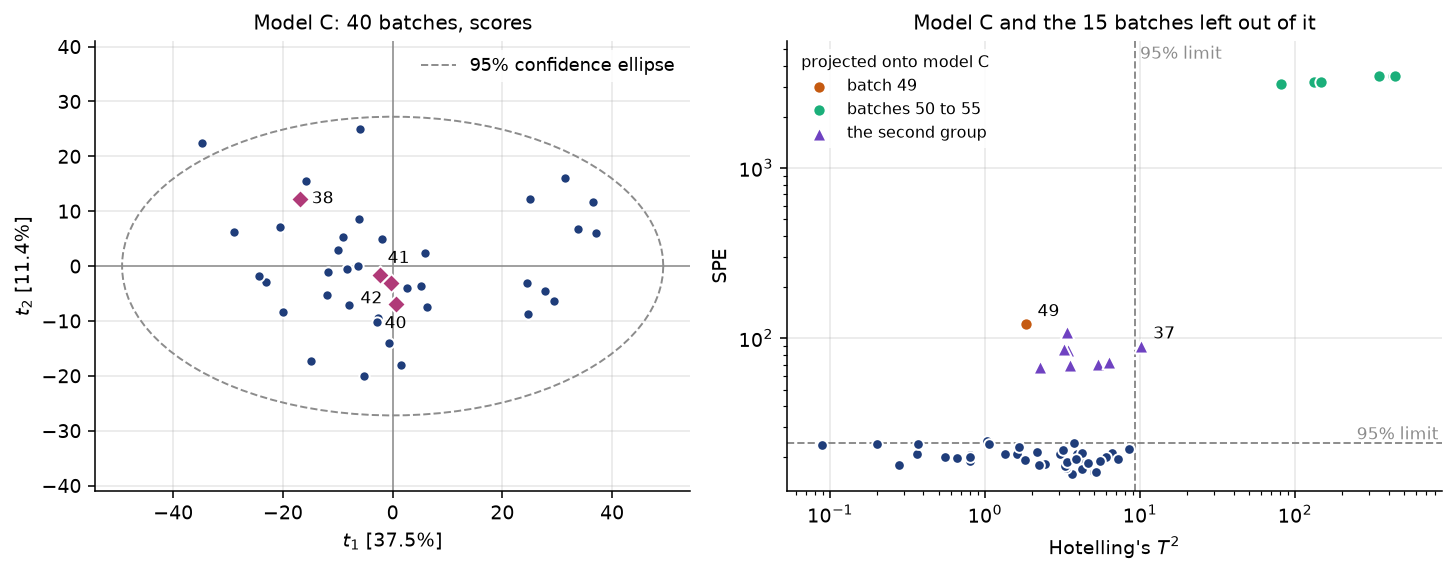
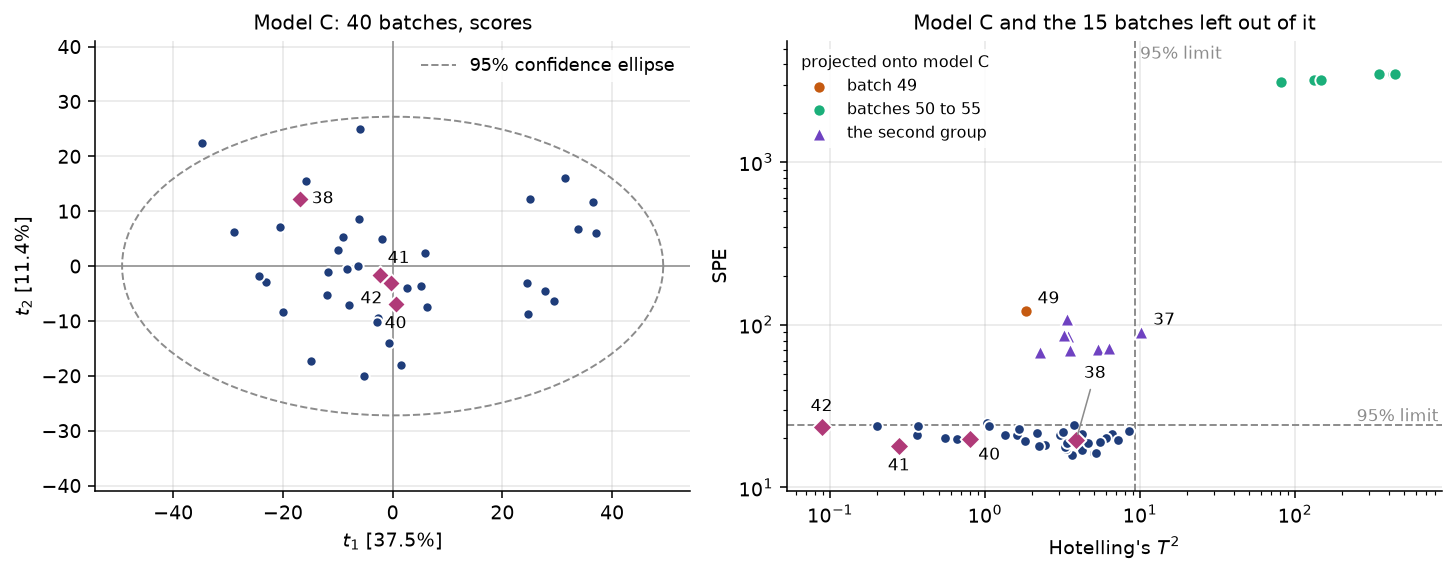
Mark batches 38, 40, 41 and 42 in the influence plot too
The book's text reads their SPE off the right panel of the model C figure, but
there they were four of forty plain blue dots, indistinguishable. They now carry
the same magenta diamond that identifies them in the score plot beside it, and
their batch numbers.

Two helper changes make that possible:

- influence_plot gains highlight_marker, which score_plot already had. A set
  given its own shape in a score plot keeps it in the influence plot beside it,
  so the reader recognises it without re-reading a legend.
- annotate_batches gains leaders, the per-batch offset that score_plot already
  implemented inline for the same purpose. Batch 38 sits in the thickest part of
  the training cloud, where no side of its marker is clear and the label solver
  pushes the label onto the x-axis; it now goes up into the empty band on a
  leader line. score_plot keeps its own copy of that logic for now, so this
  change cannot move any figure it draws.

The panel also gains room below the training cloud, which sits on its floor and
left the four new labels crowding the axis.

Claude-Session: https://claude.ai/code/session_01LXthGpHLQFfGubBiKFtGAE

diff --git a/batch/batch_case_common.py b/batch/batch_case_common.py
@@ -342,10 +342,22 @@ def group_scatter(
                    linewidth=1 if areas is None else 1.4, zorder=4)
 
 
-def annotate_batches(ax, x: pd.Series, y: pd.Series, batch_ids, *, fontsize: float = 8.5) -> None:
-    """Name a few points on a scatter panel; ``save`` then gives each label the clearest side of its marker."""
+def annotate_batches(ax, x: pd.Series, y: pd.Series, batch_ids, *, fontsize: float = 8.5,
+                     leaders: dict[int, tuple[float, float]] | None = None) -> None:
+    """Name a few points on a scatter panel; ``save`` then gives each label the clearest side of its marker.
+
+    ``leaders`` maps a batch to an offset in points: that label is placed exactly there with a leader
+    line to its marker, rather than left to ``save``'s solver. Use it for a marker inside a dense
+    cloud, where the solver has no clear side to choose and pushes the label onto an axis.
+    """
     for batch_id in batch_ids:
         point = (float(x.loc[batch_id]), float(y.loc[batch_id]))
+        if batch_id in (leaders or {}):  # a leader line is a deliberate mark, so its offset is given, not chosen
+            dx, dy = leaders[batch_id]
+            ax.annotate(str(batch_id), point, xytext=(dx, dy), textcoords="offset points", fontsize=fontsize,
+                        ha="right" if dx < 0 else "left", va="top" if dy < 0 else "bottom", zorder=6,
+                        arrowprops={"arrowstyle": "-", "color": GREY, "lw": 0.8, "shrinkA": 2, "shrinkB": 3})
+            continue
         text = ax.annotate(str(batch_id), point, xytext=(4, 4), textcoords="offset points",
                            fontsize=fontsize, zorder=6, gid=AUTO_LABEL)
         # The leader is a line of its own rather than an annotation's arrow, so `save` can set both of
@@ -443,6 +455,8 @@ def influence_plot(
     *,
     highlight: dict[int, str] | None = None,
     labels: list[int] | None = None,
+    highlight_marker: str = "o",
+    label_leader: dict[int, tuple[float, float]] | None = None,
     sizes: pd.Series | None = None,
     conf_level: float = 0.95,
     title: str = "",
@@ -483,12 +497,15 @@ def influence_plot(
 
     # ``sizes`` carries the same quantity, on the same scale, as the score plot that precedes this one,
     # so a batch keeps its marker size across the pair and can be followed from one to the other.
+    # ``highlight_marker`` does the same for shape: a set given its own marker in the score plot keeps it
+    # here, so the reader recognises it without re-reading a legend.
     areas = sizes.reindex(t2.index) * (BUBBLE / sizes.median()) if sizes is not None else None
     group_scatter(ax, t2, spe, highlight, groups=groups, group_styles=group_styles, areas=areas,
+                  highlight_marker=highlight_marker,
                   size=None if groups is not None else 30, highlight_size=None if groups is not None else 52)
     if groups is not None:
         compact_legend(ax, legend_loc)
-    annotate_batches(ax, t2, spe, labels or [])
+    annotate_batches(ax, t2, spe, labels or [], leaders=label_leader)
 
     ax.set_xlabel("Hotelling's $T^2$")
     ax.set_ylabel("SPE")

diff --git a/batch/batch-case-dupont-figures.py b/batch/batch-case-dupont-figures.py
@@ -171,7 +171,14 @@ def main(out_dir: pathlib.Path) -> None:
     score_plot(model_c, highlight={b: POOR_QUALITY_COLOUR for b in POOR_QUALITY_NOT_VISIBLE},
                highlight_marker=POOR_QUALITY_MARKER, labels=POOR_QUALITY_NOT_VISIBLE,
                title="Model C: 40 batches, scores", ax=axes[0])
-    influence_plot(model_c, title="Model C and the 15 batches left out of it", ax=axes[1])
+    # The same four, with the same colour and shape, in the influence plot: the text reads their SPE
+    # off this panel, and among 36 plain dots they are otherwise not findable.
+    # Batch 38 sits in the thickest part of the training cloud, where no side of its marker is clear:
+    # its label goes up into the empty band on a leader, the other three place themselves.
+    influence_plot(model_c, highlight={b: POOR_QUALITY_COLOUR for b in POOR_QUALITY_NOT_VISIBLE},
+                   highlight_marker=POOR_QUALITY_MARKER, labels=POOR_QUALITY_NOT_VISIBLE,
+                   label_leader={38: (4, 30)},
+                   title="Model C and the 15 batches left out of it", ax=axes[1])
     for label, (ids, colour, marker) in left_out.items():
         axes[1].scatter([float(projected[b].hotellings_t2) for b in ids], [float(projected[b].spe) for b in ids],
                         s=40 if marker == "o" else 52, color=colour, marker=marker,
@@ -184,7 +191,9 @@ def main(out_dir: pathlib.Path) -> None:
     axes[1].set_xscale("log")
     axes[1].set_yscale("log")
     axes[1].set_xlim(min(all_t2) * 0.6, max(all_t2) * 2.0)
-    axes[1].set_ylim(min(all_spe) * 0.8, max(all_spe) * 1.6)
+    # Extra room below the training cloud: it sits on the floor of the panel, and the four labels
+    # there would otherwise crowd the axis.
+    axes[1].set_ylim(min(all_spe) * 0.6, max(all_spe) * 1.6)
     axes[1].legend(loc="upper left", fontsize=8, title="projected onto model C", title_fontsize=8)  # lower right holds the SPE-limit label
     fig.tight_layout()
     save(fig, out_dir, "batch-case-dupont-model-c")
